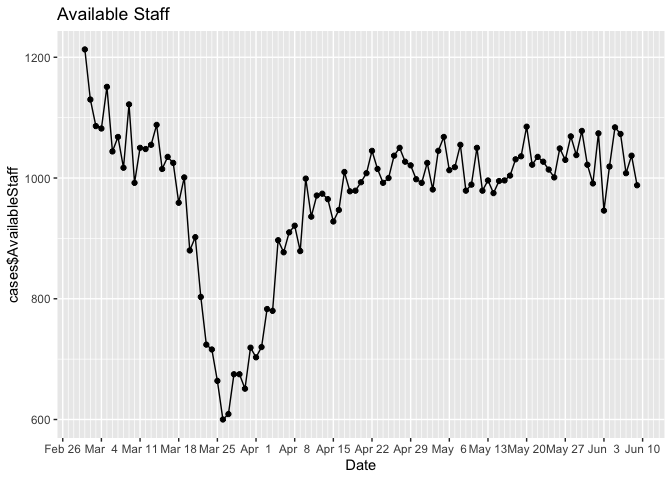
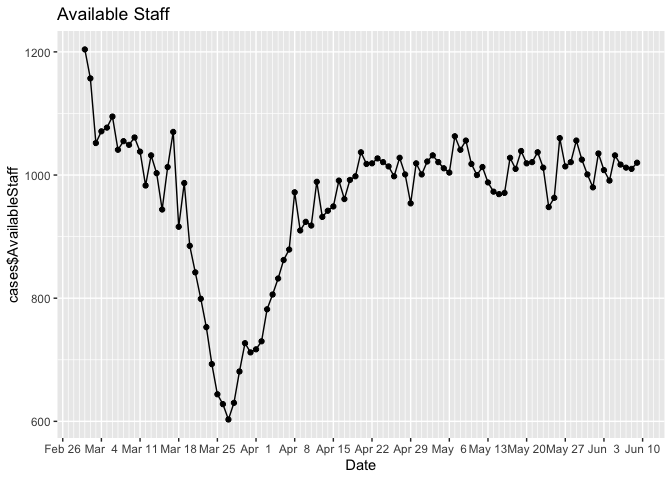
Updates

diff --git a/data-raw/README.md b/data-raw/README.md
@@ -24,15 +24,15 @@ cases
     ##      Day Date        Model Cases Model_Available_Staff Model_Unavailable_Staff
     ##    <int> <date>      <dbl> <dbl>                 <dbl>                   <dbl>
     ##  1     1 2024-03-01  0         0                 1176                     24  
-    ##  2     2 2024-03-02  0.624     3                 1147.                    52.7
-    ##  3     3 2024-03-03  1.01      0                 1124.                    76.3
-    ##  4     4 2024-03-04  1.65      0                 1104.                    95.6
-    ##  5     5 2024-03-05  2.67      2                 1089.                   111. 
-    ##  6     6 2024-03-06  4.34      4                 1076.                   124. 
-    ##  7     7 2024-03-07  7.05      4                 1065.                   135. 
-    ##  8     8 2024-03-08 11.4      13                 1056.                   144. 
-    ##  9     9 2024-03-09 18.6      19                 1049.                   151. 
-    ## 10    10 2024-03-10 30.1      37                 1042.                   158. 
+    ##  2     2 2024-03-02  0.624     0                 1147.                    52.7
+    ##  3     3 2024-03-03  1.01      1                 1124.                    76.3
+    ##  4     4 2024-03-04  1.65      4                 1104.                    95.6
+    ##  5     5 2024-03-05  2.67      4                 1089.                   111. 
+    ##  6     6 2024-03-06  4.34      6                 1076.                   124. 
+    ##  7     7 2024-03-07  7.05      6                 1065.                   135. 
+    ##  8     8 2024-03-08 11.4      11                 1056.                   144. 
+    ##  9     9 2024-03-09 18.6      23                 1049.                   151. 
+    ## 10    10 2024-03-10 30.1      36                 1042.                   158. 
     ## # ℹ 91 more rows
     ## # ℹ 1 more variable: AvailableStaff <dbl>
 
